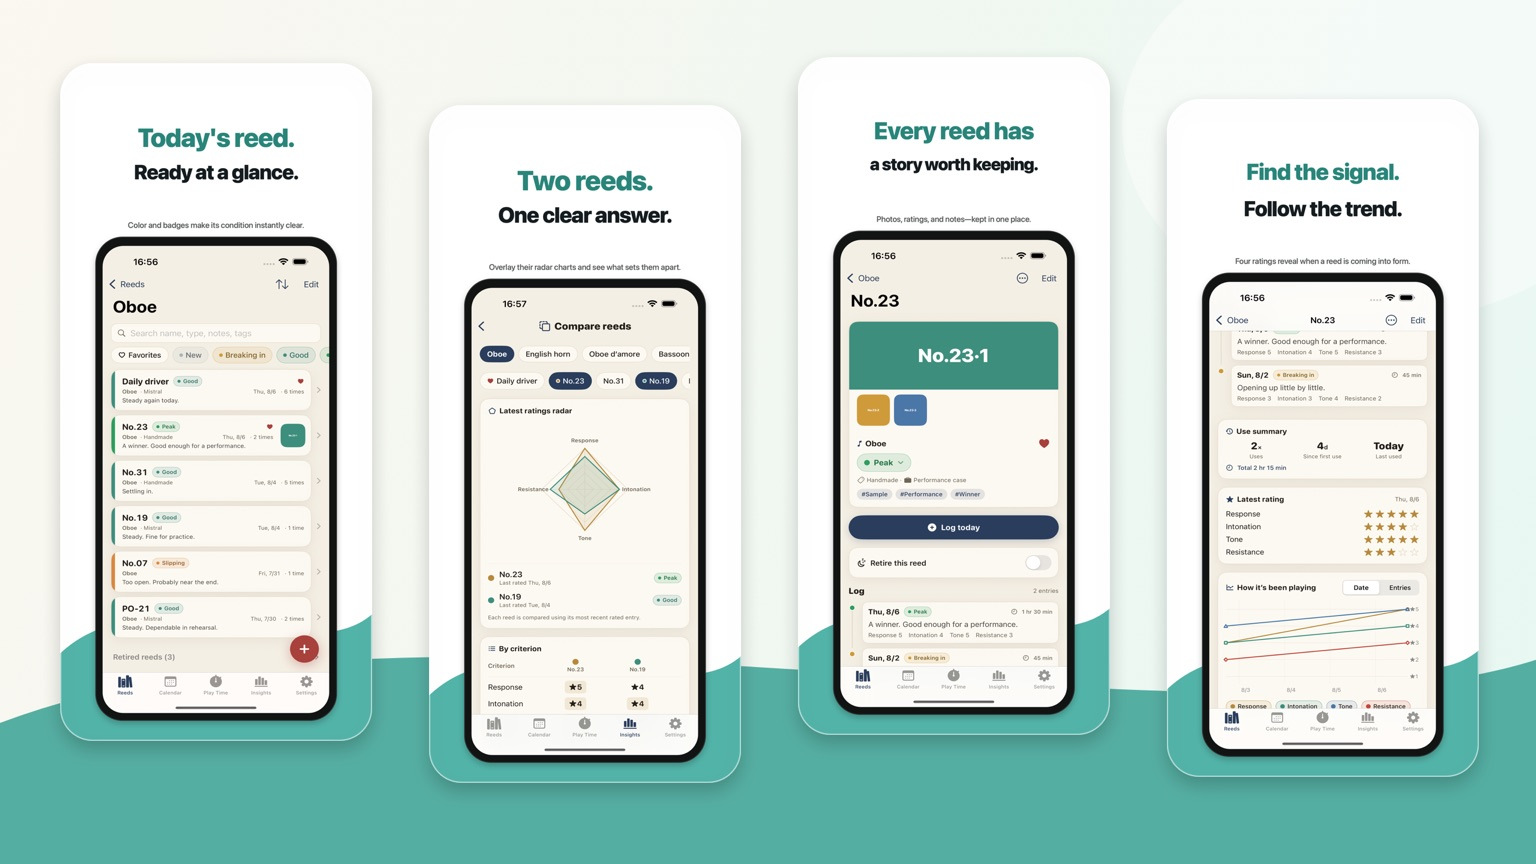
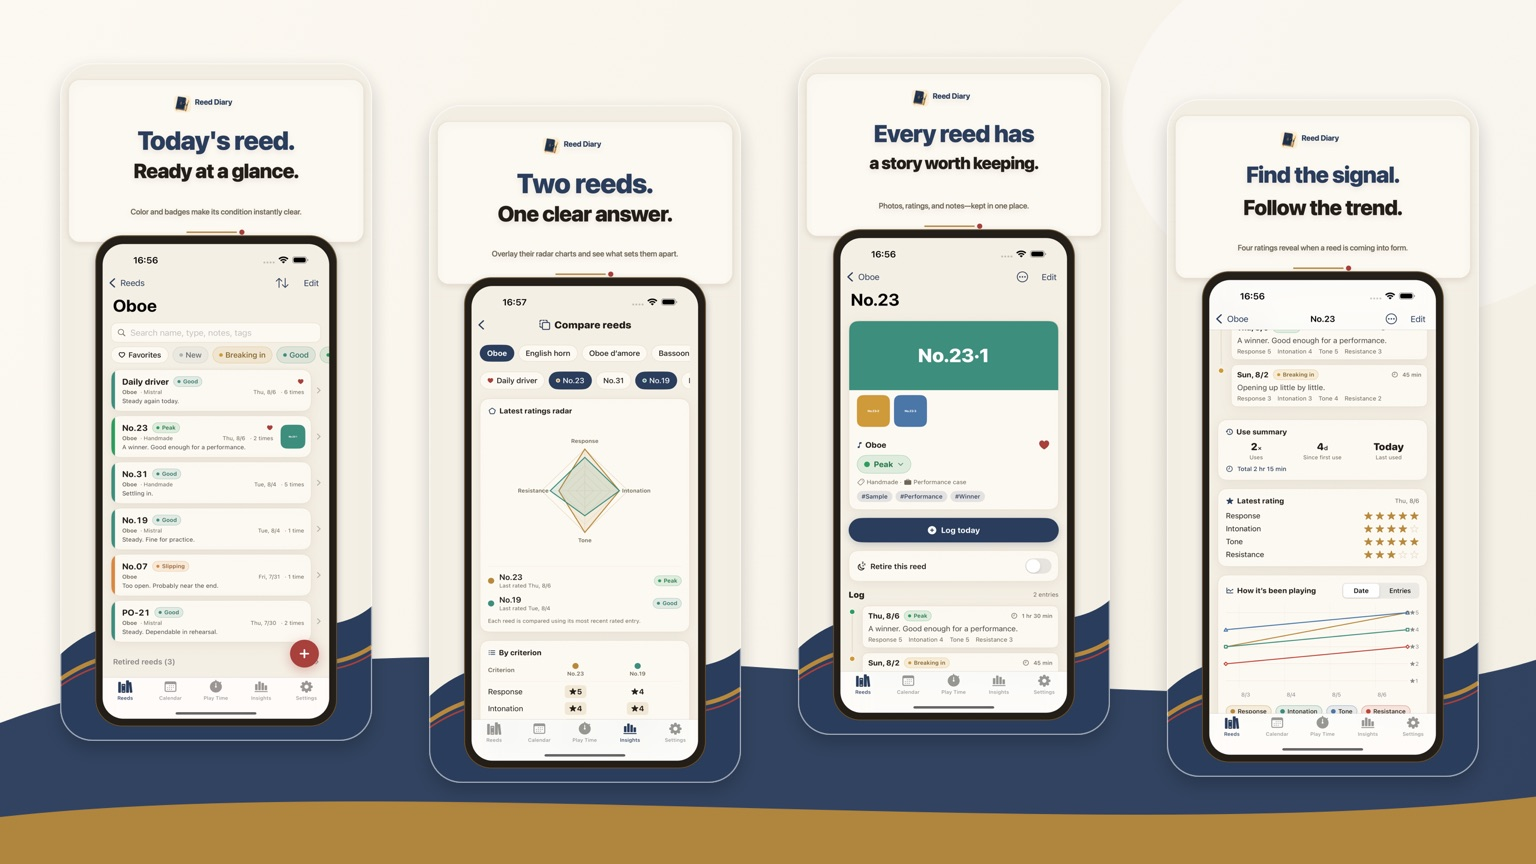
feat(site): リード日記のLP画像をブランド版に差し替える
紹介画像の作り直し。ティール基調から、アプリの実配色（紺＋真鍮の金＋
赤い糸）に寄せたブランド版になった。各画面にアプリ名とアイコンが乗る。

- `app-image.jpg` 211KB / `app-image-en.jpg` 215KB（どちらも 1536×864）。
  元は 2560×1440 の PNG。
- 日本語の alt を新しい文言に追随させた。1枚目の見出しが
  「今日の1本、ひと目で整う」→「今日の1本を、ひと目で整える」、
  サブコピーが「…を迷わず把握。」→「…がすぐわかる。」に変わっている。
  **画像を差し替えたら alt も必ず読み直すこと**（見出しは画像に焼き込みなので
  差分が出ない）。
- 英語は文言が変わっていないので alt はそのまま。実物と突き合わせて確認済み。

diff --git a/reeddiary/index.html b/reeddiary/index.html
@@ -189,7 +189,7 @@
     <div class="wrap">
       <figure class="shot">
         <div class="shot-scroll">
-          <img class="shot-img" src="./app-image.jpg" width="1536" height="864" decoding="async" alt="アプリの4画面。1. リードの一覧「今日の1本、ひと目で整う — 色とバッジで、今のコンディションを迷わず把握。」2. リードを比較「2本の違いを、重ねて見抜く — 感覚の差を、レーダーチャートで見える化。」3. リードの詳細「そのリードの、ベストな記憶を。— 写真・評価・日記を、1本のストーリーに。」4. 調子の推移「変化のサインを、線でつかむ — 4つの評価から、育ちどきを見極める。」">
+          <img class="shot-img" src="./app-image.jpg" width="1536" height="864" decoding="async" alt="アプリの4画面。1. リードの一覧「今日の1本を、ひと目で整える — 色とバッジで、今のコンディションがすぐわかる。」2. リードを比較「2本の違いを、重ねて見抜く — 感覚の差を、レーダーチャートで見える化。」3. リードの詳細「そのリードの、ベストな記憶を。— 写真・評価・日記を、1本のストーリーに。」4. 調子の推移「変化のサインを、線でつかむ — 4つの評価から、育ちどきを見極める。」">
         </div>
       </figure>
     </div>
